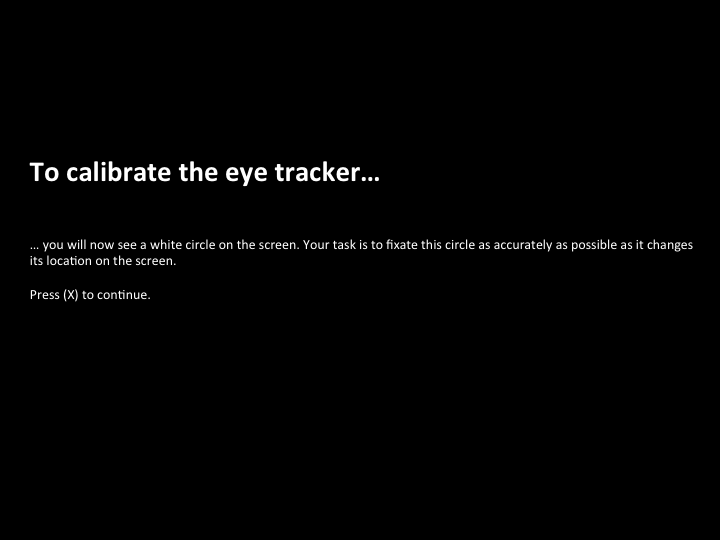
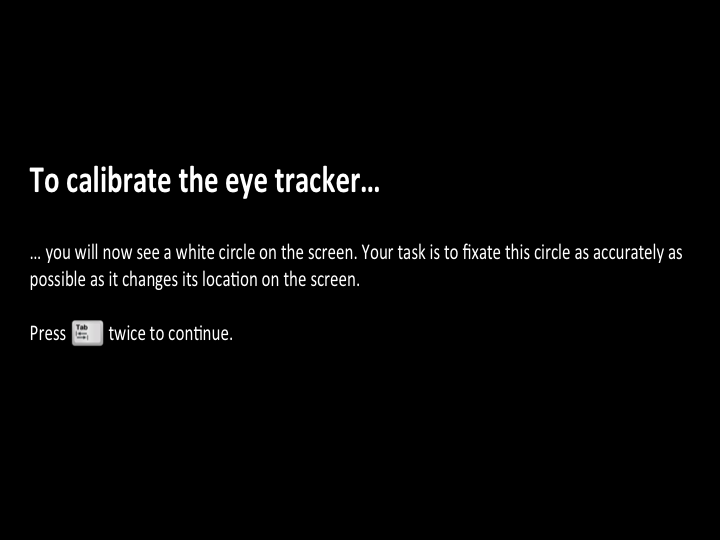
Implemented new instruction screens

Changed region(s): [[0.0306, 0.4444, 0.9778, 0.563], [0.0306, 0.2963, 0.55, 0.3852], [0.0306, 0.5926, 0.3361, 0.6519]]

diff --git a/Assets/Scripts/Experiment/SceneController.cs b/Assets/Scripts/Experiment/SceneController.cs
@@ -5,6 +5,7 @@ using UnityEngine.UI;
 public class SceneController : MonoBehaviour { //there can be a separate scene controller in each scene
 
     public Image calibrationInstructions;
+	public Image calibrationInstructions_German;
 	//SINGLETON
 	private static SceneController _instance;
 	
@@ -26,8 +27,13 @@ public class SceneController : MonoBehaviour { //there can be a separate scene c
 
 	// Use this for initialization
 	void Start () {
+		#if !GERMAN
         if (calibrationInstructions!=null)
         calibrationInstructions.enabled = false;
+		#else
+		if (calibrationInstructions_German!=null)
+		calibrationInstructions_German.enabled = false;
+		#endif
 
 	}
 
@@ -39,7 +45,11 @@ public class SceneController : MonoBehaviour { //there can be a separate scene c
 
     IEnumerator ShowCalibrationInstructions()
     {
+		#if !GERMAN
         calibrationInstructions.enabled = true;
+		#else
+		calibrationInstructions_German.enabled=true;
+		#endif
         yield return StartCoroutine(UsefulFunctions.WaitForActionButton());
         yield return null;
     }
